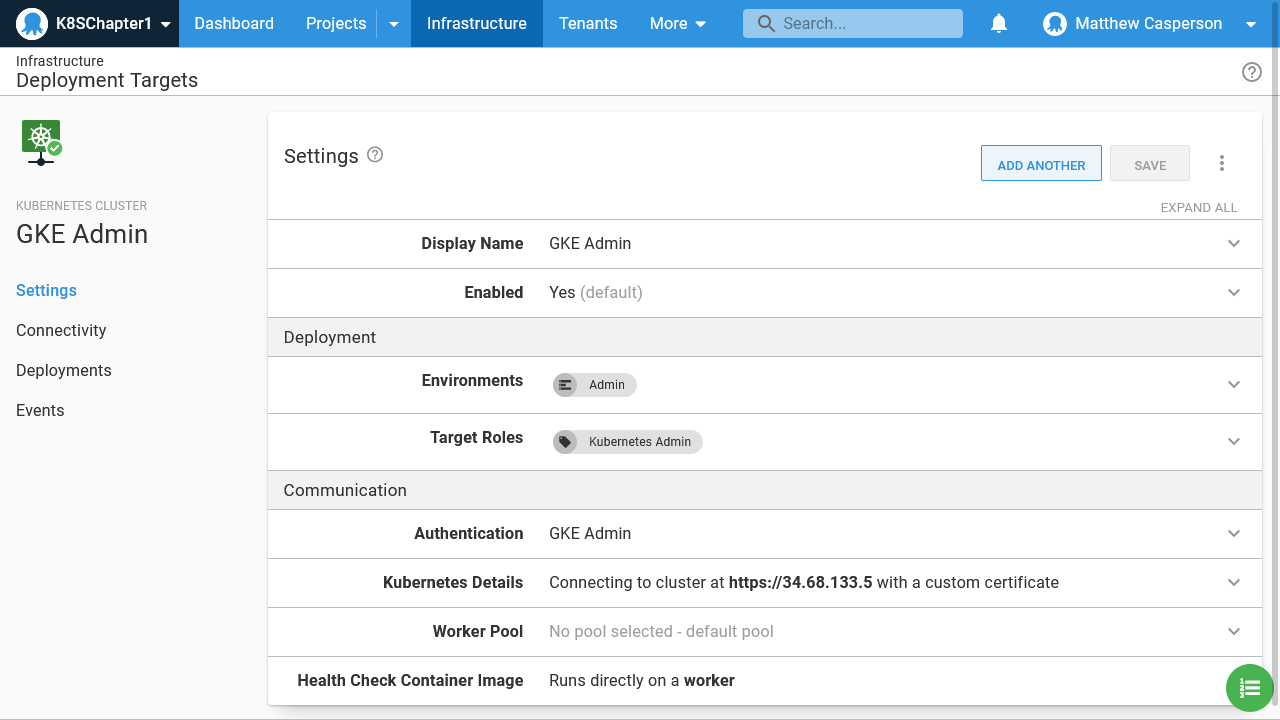
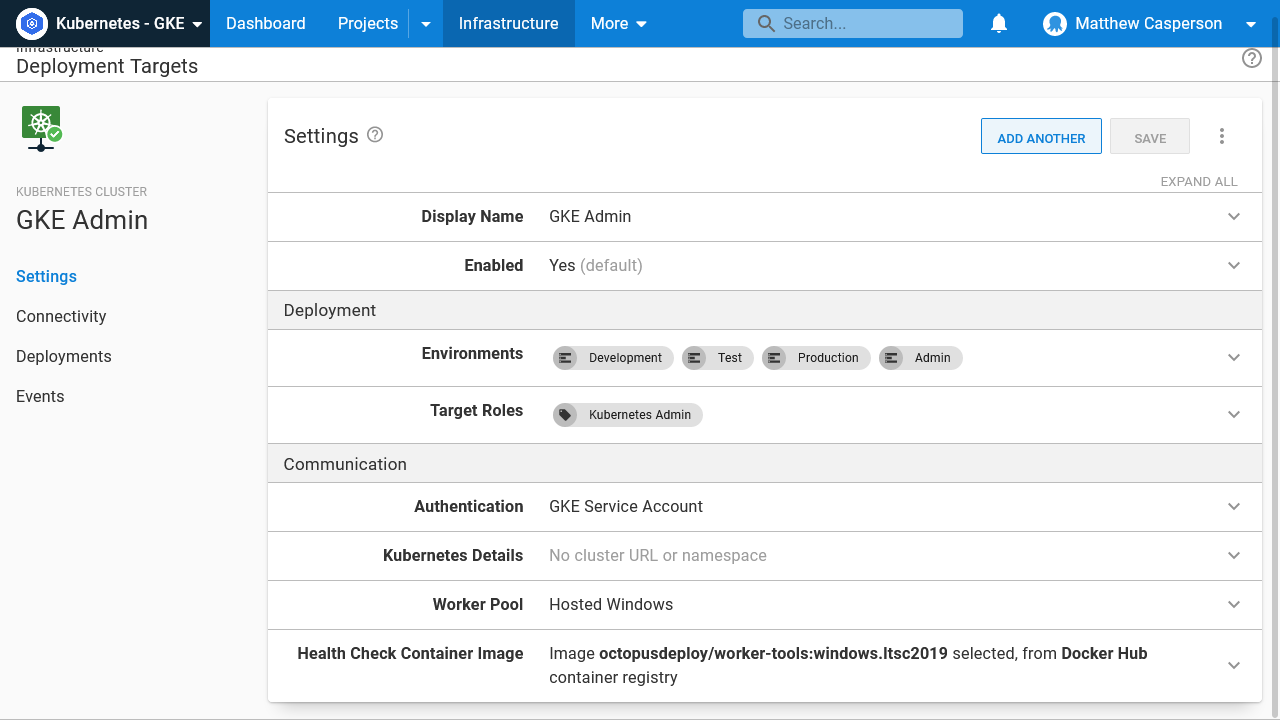
Fixed up the admin target environments

diff --git a/_includes/chapter1.html b/_includes/chapter1.html
@@ -244,7 +244,10 @@
 	<li>Then click the <b>Kubernetes Cluster</b> tile.</li>
 </ol>	
 <p>
-	We'll call this target <b>GKE Admin</b>, and scope it to the <b>Admin</b> environment.
+	We'll call this target <b>GKE Admin</b>, and scope it to all the environments.
+</p>
+<p class="note">
+    We'll use the ability to create dynamic infrastructure later in this chapter to to create the environment and application specific Kubernetes targets. Dynamic targets can only be created in the environment in which a deployment or runbook run is executed. For example, if a runbook creating dynamic targets is run in the <b>Development</b> environment, the resulting target will be scoped to the <b>Development</b> environment. So, to allow dynamic targets to be created in the <b>Development</b>, <b>Test</b>, and <b>Production</b> environments, the <b>GKE Admin</b> target must be scoped to them.
 </p>
 <p>
 	We then assign the target a role of <b>Kubernetes Admin</b>. You can think of roles like tags. This role indicates that our target will be used for administering our Kubernetes cluster.
@@ -264,7 +267,7 @@
 <p>
 	Before we dive into workers and worker pools, save the target with the details entered so far. If we need to, we can come back to this target and change the worker pool:
 </p>
-<div><img alt="Google K8s cluster" src="images/octopus/k8s--autopilot-admin-target.png"/></div>
+<div><img alt="Google K8s cluster" src="images/octopus/k8s-admin-target.png"/></div>
 <h3>Octopus workers and worker pools</h3>
 <p>
 	Up until this point we have been working with the Octopus server. You can think of the server as an orchestrator that ensures deployments are performed in the required environments to the appropriate targets with all the necessary settings and packages.
@@ -482,6 +485,9 @@
 </p>
 <p>
 	We now have everything in place to start deploying a real application to our Kubernetes cluster.
+</p>
+<p class="note">
+	To increase security it is recommended that the <b>GKE Admin</b> target and it's associated account now be scoped only to the <b>Admin</b> environment. We placed the target in all environments to quickly create the environment and application specific targets via dynamic target scripts, but with that done, all remaining administration tasks will be performed in the <b>Admin</b> environment.
 </p>
 <h3>Our sample application</h3>
 <p>
